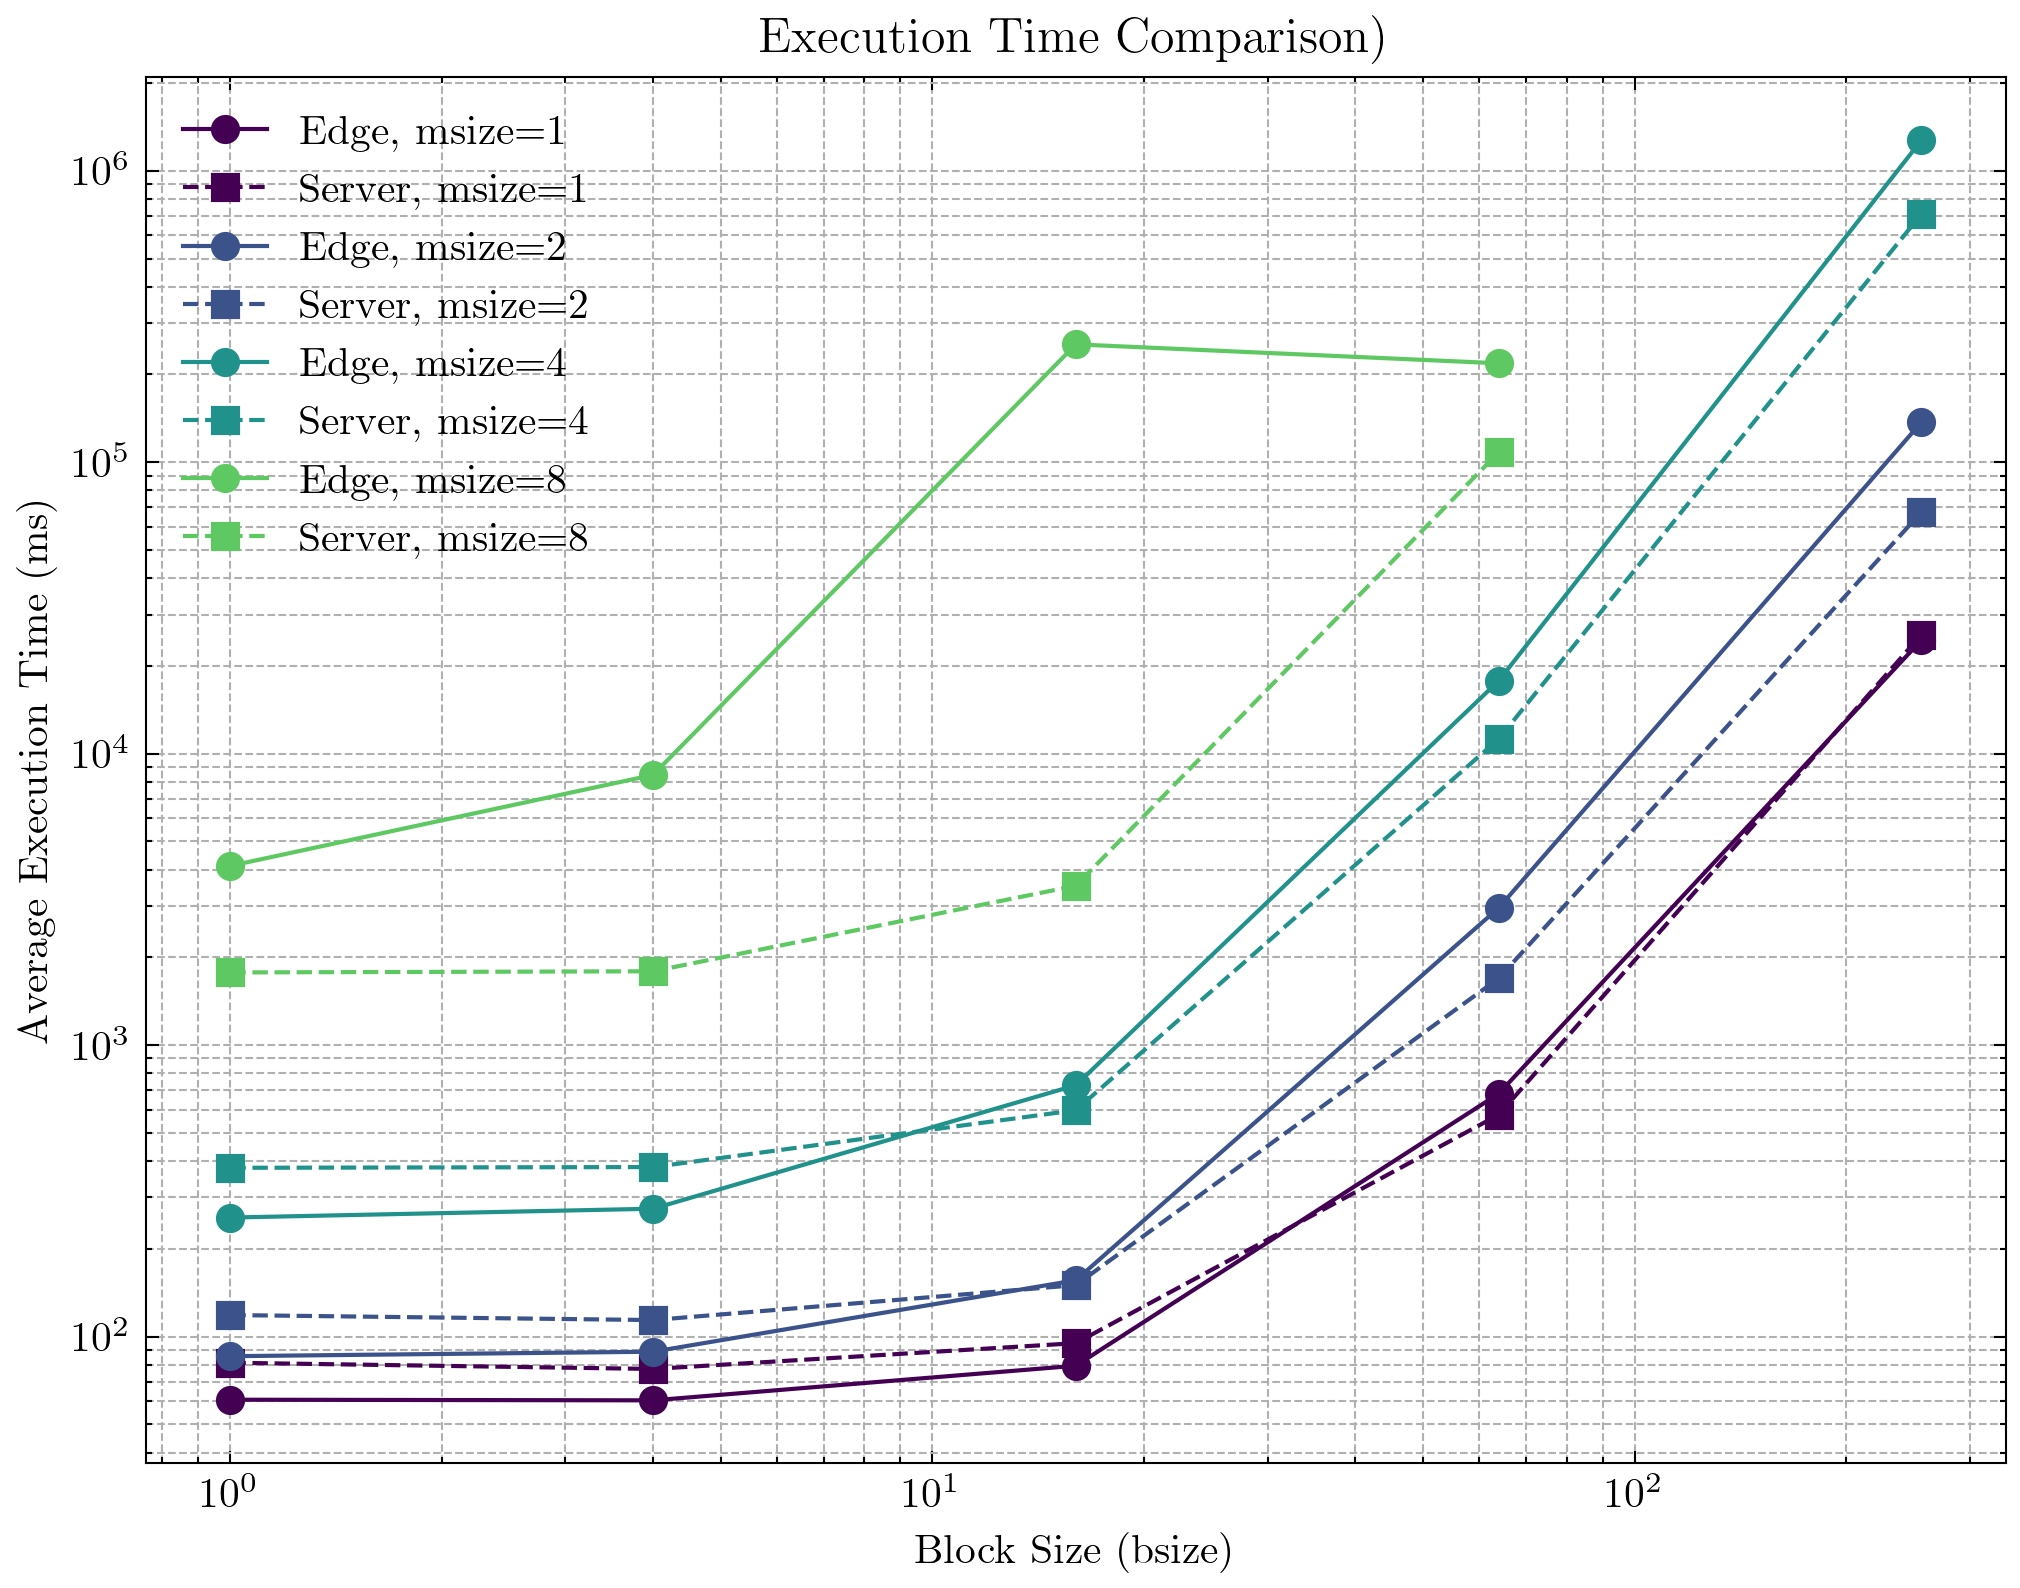
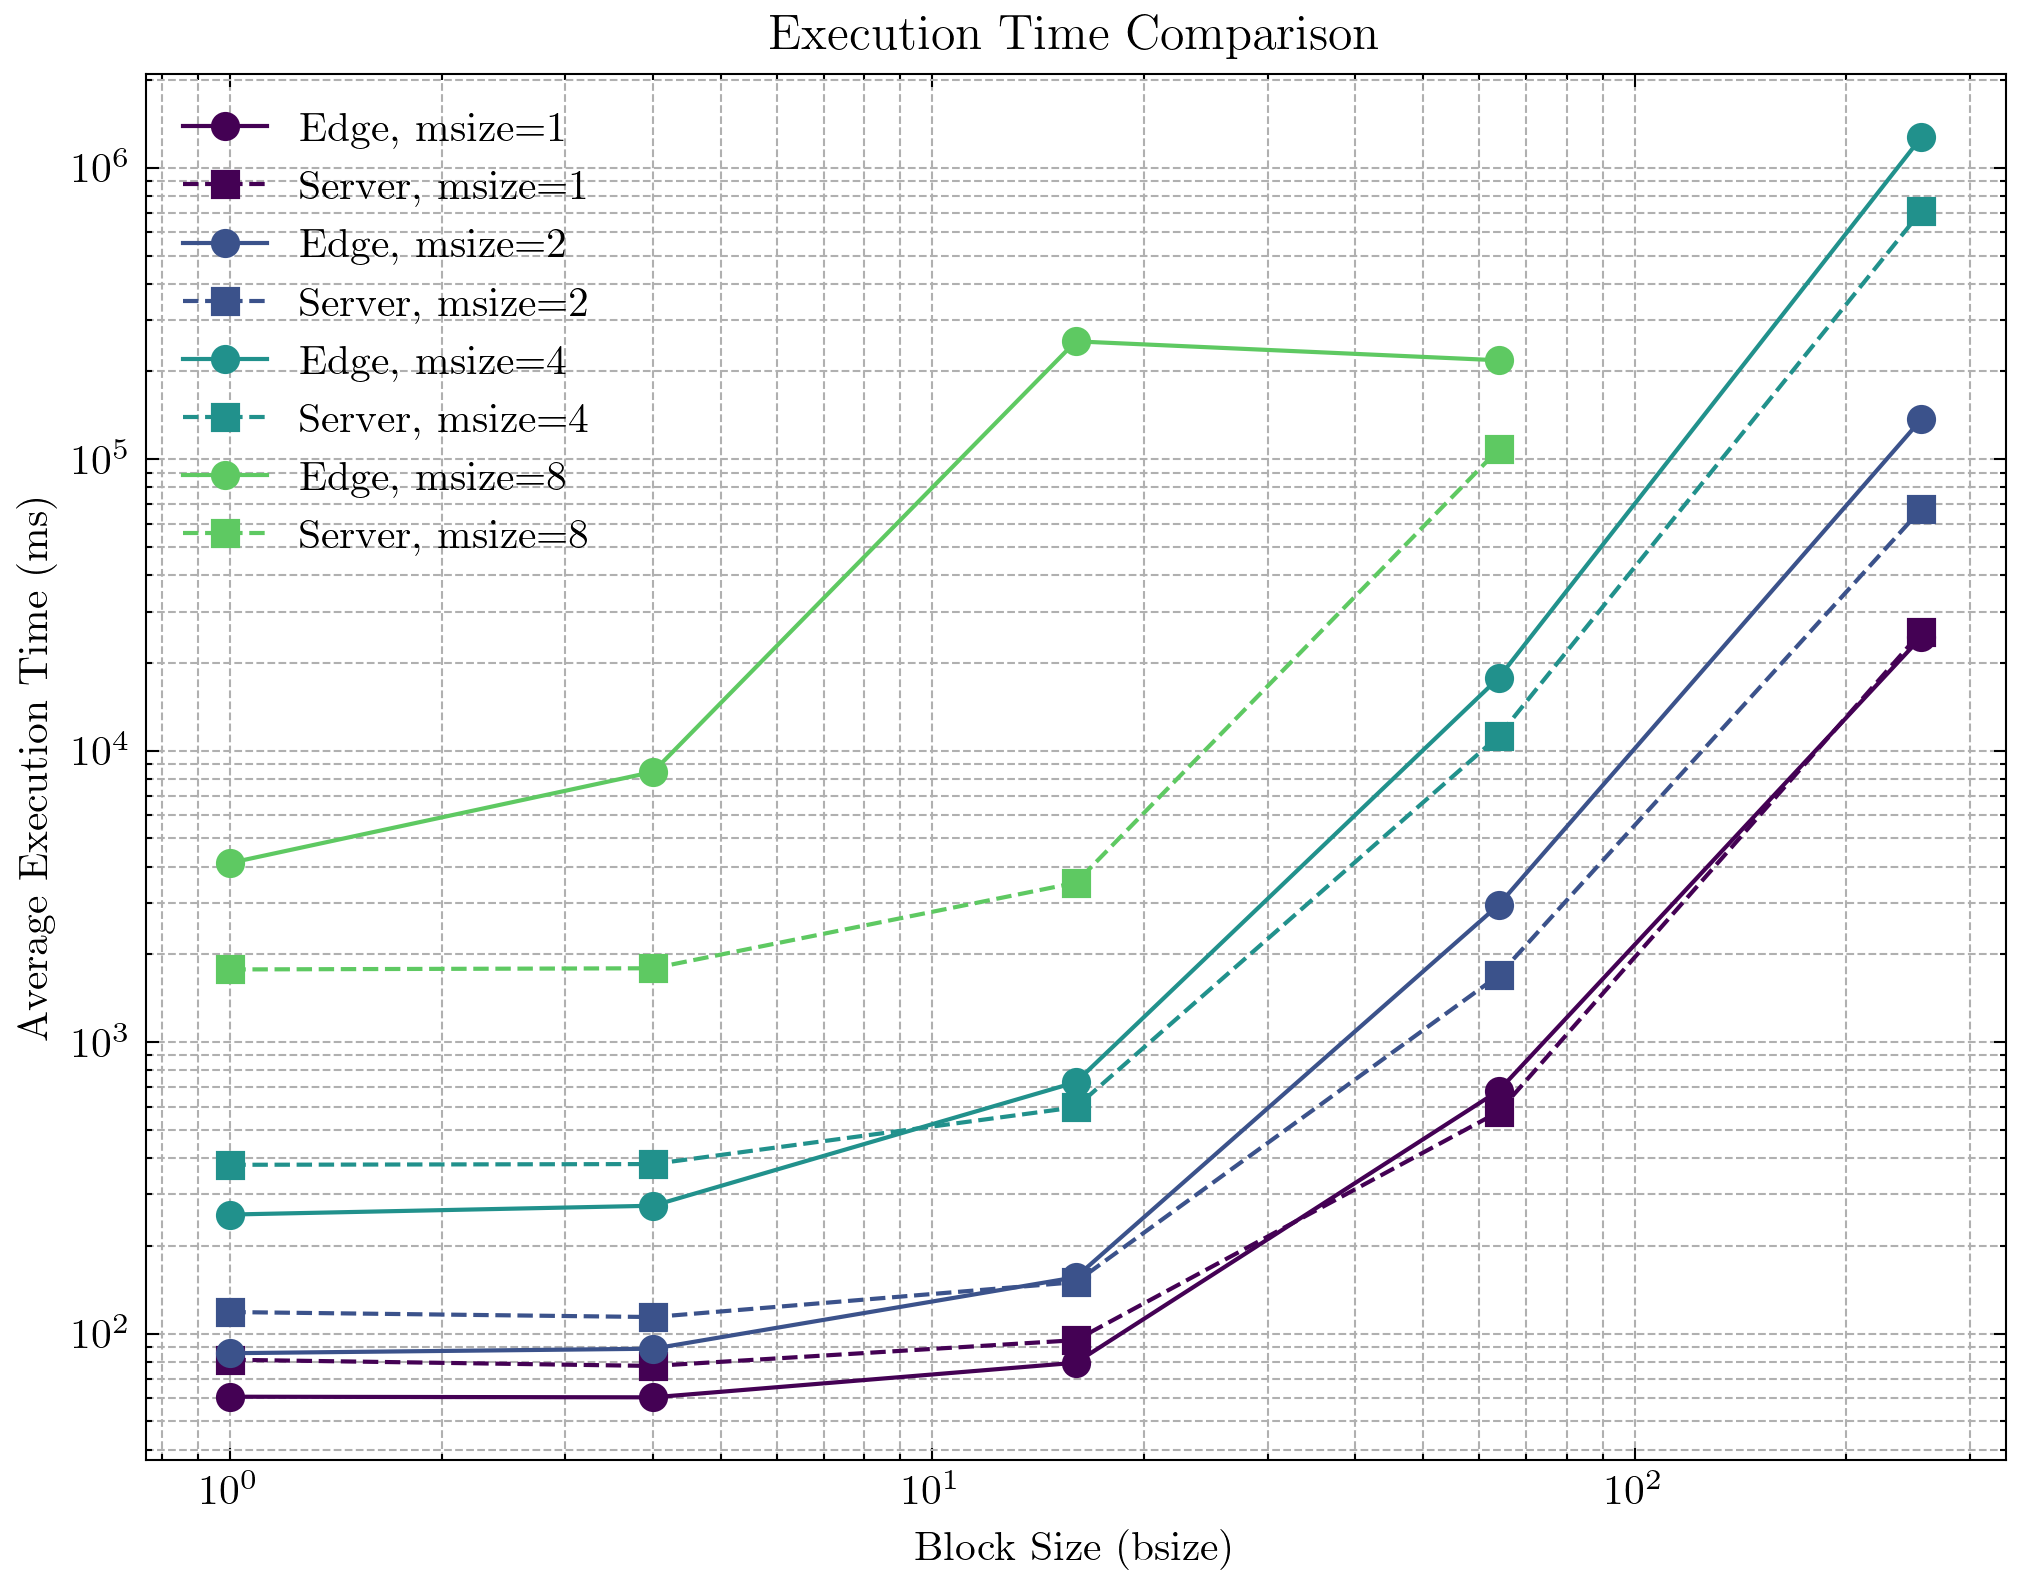
Comment plot in labels

diff --git a/experiments/response_time_agents/postprocess/create_plots.py b/experiments/response_time_agents/postprocess/create_plots.py
@@ -30,8 +30,7 @@ def plot_results(edge_df, server_df):
     os.makedirs(output_dir, exist_ok=True)
 
     msize_values = sorted(edge_df['msize'].unique())
-    color_map = {msize: COLORS(i / len(msize_values)) for i, msize in
-                 enumerate(msize_values)}
+    color_map = {msize: COLORS(i / len(msize_values)) for i, msize in enumerate(msize_values)}
 
     plt.figure(figsize=(8, 6))
 
@@ -55,13 +54,48 @@ def plot_results(edge_df, server_df):
     plt.yscale("log")
     plt.xlabel("Block Size (bsize)")
     plt.ylabel("Average Execution Time (ms)")
-    plt.title("Execution Time Comparison)")
+    plt.title("Execution Time Comparison")
     plt.legend()
     plt.grid(True, which="both", linestyle="--", linewidth=0.5)
 
     output_path = os.path.join(output_dir, "execution_time.png")
     plt.savefig(output_path, dpi=300)
     plt.close()
+
+    # Additional plot with execution times displayed next to points
+    """plt.figure(figsize=(8, 6))
+
+    for msize in msize_values:
+        edge_subset = edge_df[edge_df['msize'] == msize]
+        server_subset = server_df[server_df['msize'] == msize]
+
+        # Plot Edge
+        plt.plot(edge_subset['bsize'], edge_subset['average_time'],
+                 marker=MARKERS["Edge"], linestyle='-',
+                 label=f'Edge, msize={msize}',
+                 color=color_map[msize])
+        for i, txt in enumerate(edge_subset['average_time']):
+            plt.text(edge_subset['bsize'].iloc[i], txt, f'{txt:.2f}', fontsize=8, ha='right')
+
+        # Plot Server
+        plt.plot(server_subset['bsize'], server_subset['average_time'],
+                 marker=MARKERS["Server"], linestyle='--',
+                 label=f'Server, msize={msize}',
+                 color=color_map[msize])
+        for i, txt in enumerate(server_subset['average_time']):
+            plt.text(server_subset['bsize'].iloc[i], txt, f'{txt:.2f}', fontsize=8, ha='left')
+
+    plt.xscale("log")
+    plt.yscale("log")
+    plt.xlabel("Block Size (bsize)")
+    plt.ylabel("Average Execution Time (ms)")
+    plt.title("Execution Time Comparison with Labels")
+    plt.legend()
+    plt.grid(True, which="both", linestyle="--", linewidth=0.5)
+
+    output_path = os.path.join(output_dir, "execution_time_with_labels.png")
+    plt.savefig(output_path, dpi=300)
+    plt.close()"""
 
 
 def main():
